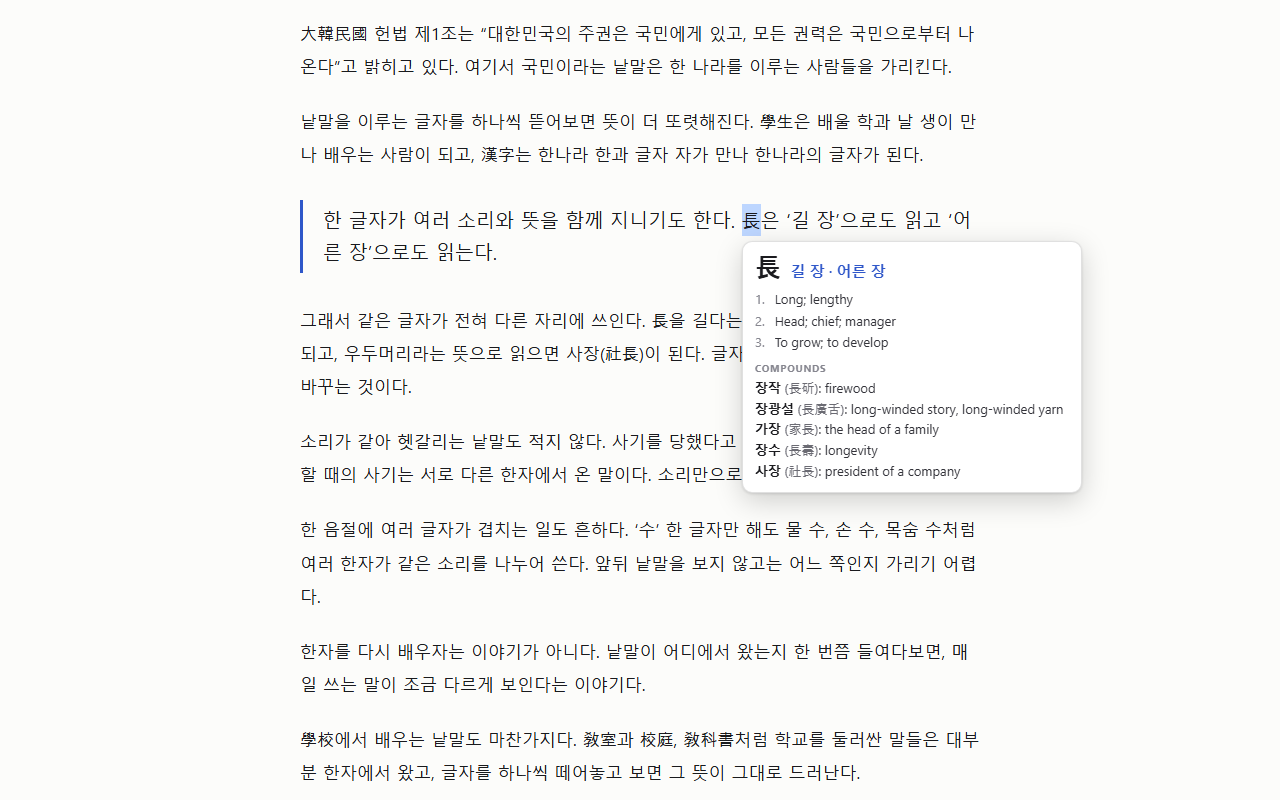
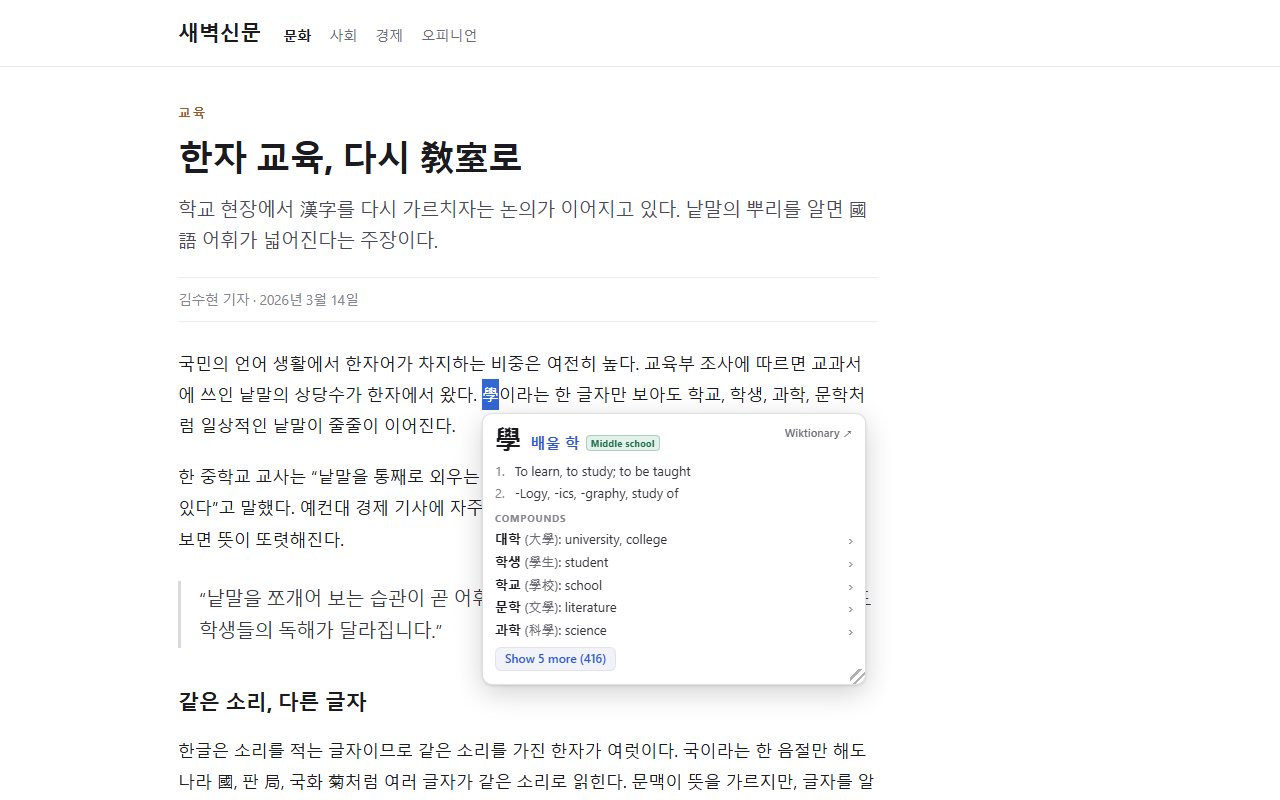
Recapture store screenshots against today's UI; refresh README
The five 1280x800 store shots predated level chips, compound pagination,
used-in, breadcrumbs and the search popup. All five were recaptured from the
REAL content.js and the REAL popup shell, driven against the REAL corpus via
extension/lookup.js (staging pages under test-page/_*.local.html, deleted
after the run), light theme to match the promo tiles:

  1 character lookup    學 — level chip, numbered senses, compound nav rows,
                        the "Show 5 more" control, Wiktionary link
  2 hangul reverse      국민 to 國民 with eumhun chips, the used-in row and
                        the nested COMPONENT HANJA cards
  3 recursive breakdown 資本 to its larger words to 資本主義 — three crumbs,
                        COMPONENT WORDS above COMPONENT HANJA
  4 homophone browse    국 — all four level zones in one list
  5 search popup        NEW slot, replacing 5-homograph-spellings: the
                        toolbar search surface, staged on a browser mock

README: level taxonomy, four-zone browse, the search popup and the hj
omnibox keyword, compound/used-in exploration, breadcrumbs, resizable panel
and background Wiktionary tabs, plus the browse and search shots.

Changed region(s): [[0.125, 0.25, 0.8438, 1.0], [0.125, 0.125, 0.75, 0.2188], [0.125, 0.0312, 0.75, 0.0938]]

diff --git a/README.md b/README.md
@@ -2,6 +2,7 @@
 
 A study tool for Korean learners. Highlight hanja, hanzi, or kanji on any page
 to read them in Korean, or highlight a Korean (hangul) word to see its hanja.
+Nothing to highlight? Type into the toolbar search popup instead.
 
 옥편 (玉篇) is the traditional Korean word for a hanja dictionary.
 
@@ -10,22 +11,44 @@ to read them in Korean, or highlight a Korean (hangul) word to see its hanja.
 ## What it does
 
 - **Characters into Korean** — select a hanja to get its eumhun (나라 국 for
-  國), readings, English definitions, and its most common compounds.
+  國), readings, numbered English senses, and its most common compounds.
   Simplified Chinese forms and Japanese shinjitai (国, 学, 気, 図) resolve to
   the same entries, so Chinese and Japanese pages work as well as Korean ones.
 - **Korean words into hanja** — highlight a Sino-Korean word written in hangul
   (국민) to see the hanja behind it (國民), its meaning, and each component
   character. Grammatical endings are handled: 자본주의는 still finds 자본주의.
 - **Recursive breakdown** — long compounds split into component words
-  (자본주의 → 資本 + 主義), each clickable, with breadcrumb navigation.
+  (자본주의 → 資本 + 主義), character cards list their compounds five at a time
+  ("Show 5 more"), and word cards offer "Used in N larger words". Every row is
+  clickable; a breadcrumb trail records the descent and jumps back.
 - **Browse by sound** — highlight a single hangul syllable (국) to list every
-  hanja read that way, ranked by frequency.
+  hanja read that way, sorted from schoolbook characters down to the obscure
+  ones.
+- **How common a character is** — every character carries one level chip:
+  *Middle school* and *High school* follow the Korean MOE curriculum lists;
+  *Advanced* and *Rare* are our own editorial split of everything past them,
+  and the chip tooltips say so.
+- **Search without selecting** — the toolbar button opens a search popup, and
+  the omnibox keyword `hj` searches from the address bar. Same cards as the
+  selection popup, so nothing behaves differently.
+- **Wiktionary when you want more** — each card links to its Wiktionary entry,
+  opened in a background tab so the popup and the page you were reading stay put.
+- **Resizable** — drag the popup's corner; the size holds for the rest of the
+  page visit.
 - **Honest edges** — native Korean words show nothing rather than a forced
   match; obscure hanja homographs of common native words (사랑 → 舍廊) are
   labelled as rare instead of being presented as etymology.
 - **Private and offline** — the whole dictionary ships inside the extension.
   No network requests, no data collection, no permissions beyond the content
   script itself. See [privacy-policy.html](privacy-policy.html).
+
+![Homophone browse](screenshots/4-homophone-browse.png)
+
+*One syllable, every hanja read that way, level chips first.*
+
+![Search popup](screenshots/5-search-popup.png)
+
+*The toolbar search popup — the same cards, typed instead of selected.*
 
 ## Install
 
